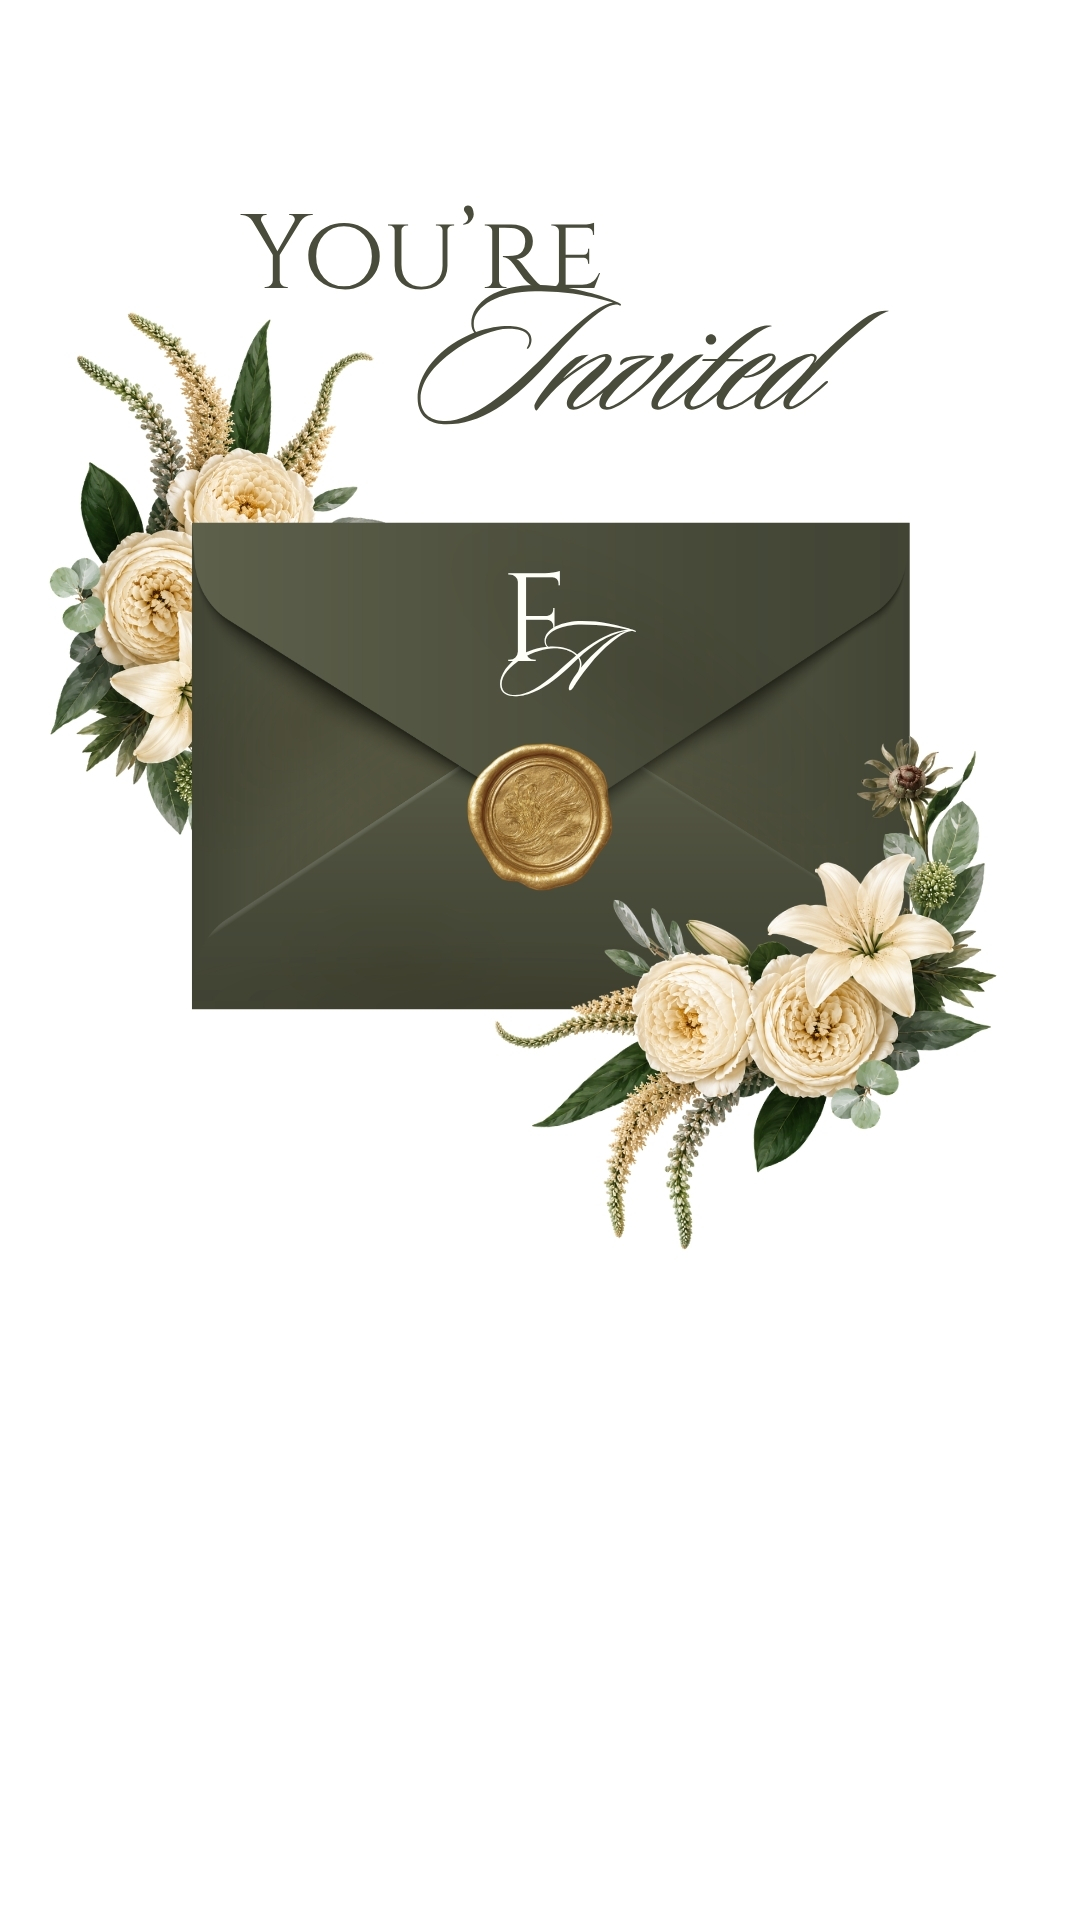
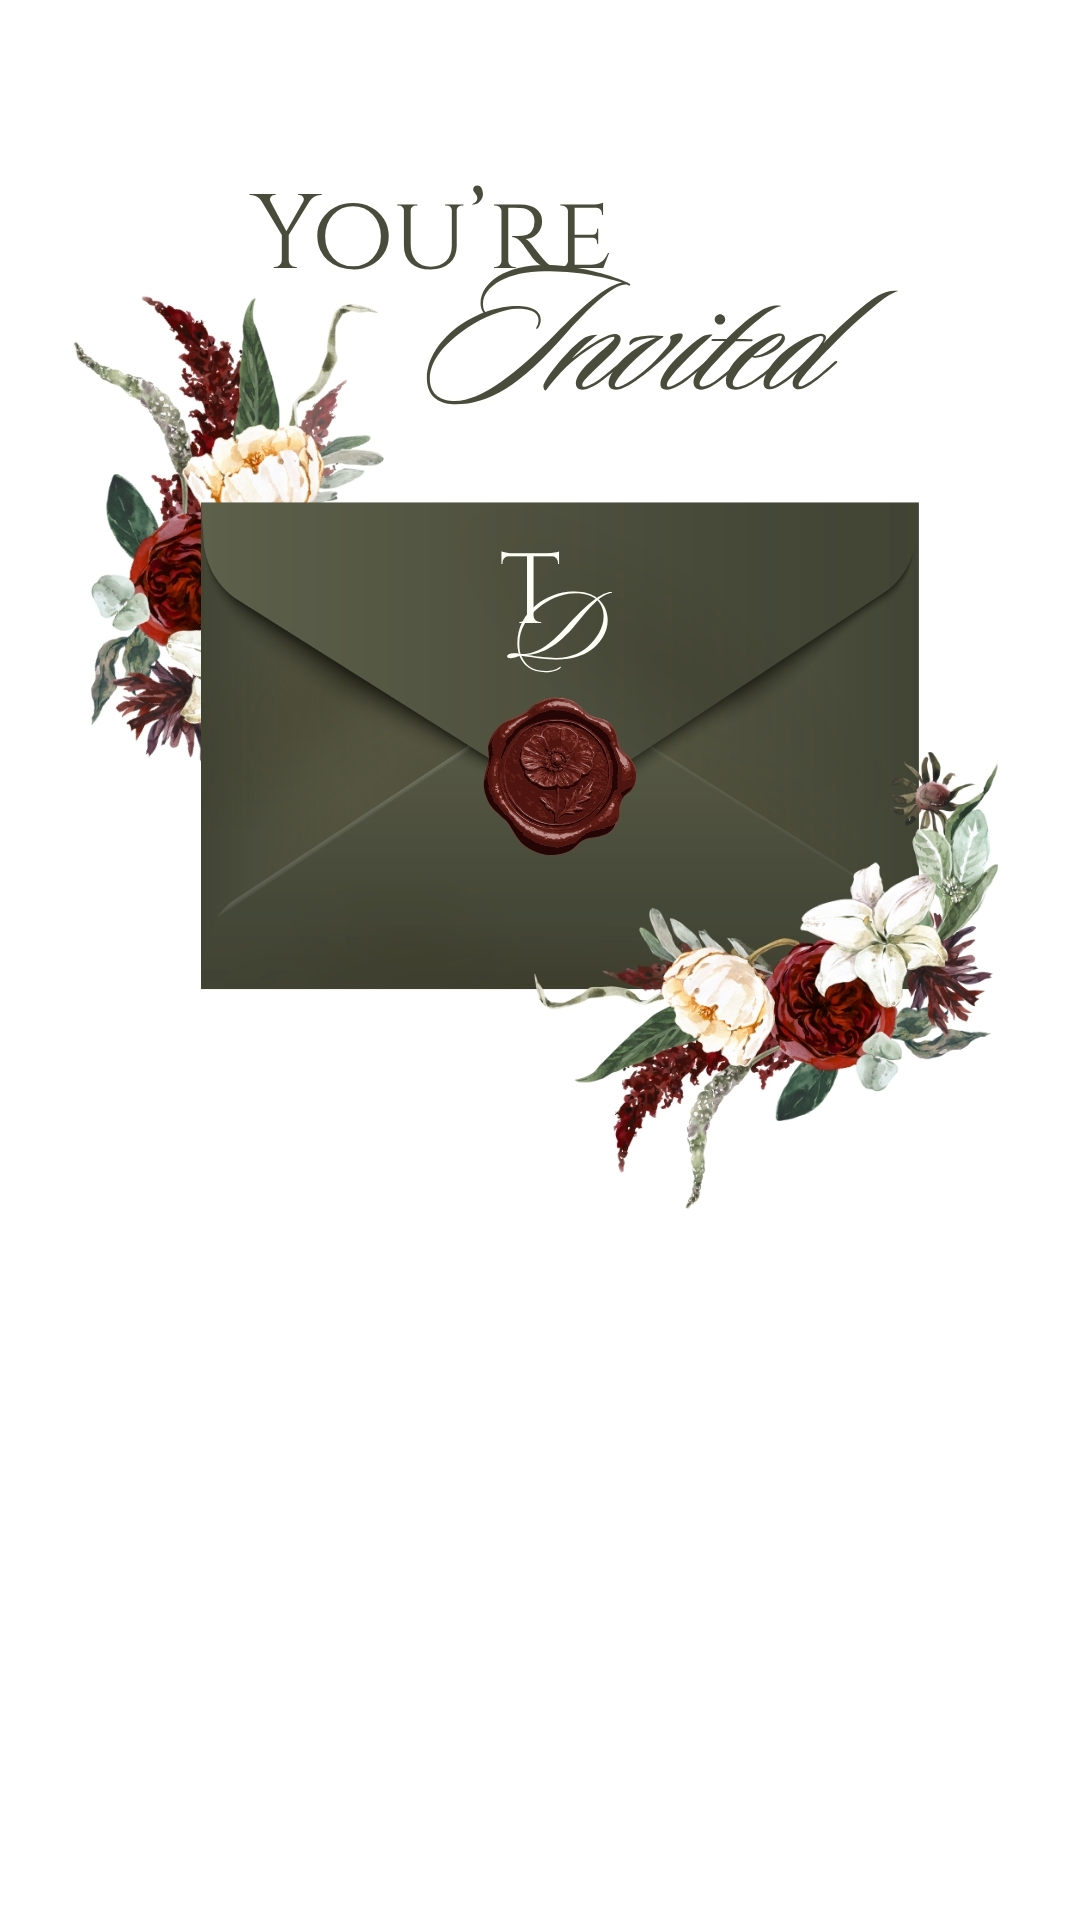
Add files via upload

Changed region(s): [[0.0306, 0.0938, 0.9167, 0.6562], [0.6722, 0.3438, 0.7028, 0.375]]

diff --git a/index.html b/index.html
@@ -9,11 +9,11 @@
   <!-- OPEN GRAPH / WHATSAPP PREVIEW -->
   <meta property="og:title" content="Wedding Invitation">
 
-  <meta property="og:description" content="Farhan & Amira">
+  <meta property="og:description" content="Theo & Disa">
 
-  <meta property="og:image" content="https://farhan-amira.vercel.app/preview.jpg">
+  <meta property="og:image" content="https://theo-disa.vercel.app/preview.jpg">
 
-  <meta property="og:url" content="https://farhan-amira.vercel.app">
+  <meta property="og:url" content="https://theo-disa.vercel.app">
 
   <meta property="og:type" content="website">
 
@@ -116,7 +116,7 @@
       width:100%;
       height:58px;
 
-      background:#515443;
+      background:#5b1b13;
       color:#fff;
 
       border-radius:999px;
@@ -219,7 +219,7 @@
 
     // LINK UNDANGAN
     const invitationLink =
-      "https://wedding-ckcreative.my.canva.site/farhan-amira";
+      "https://wedding-ckcreative.my.canva.site/theo-disa";
 
     // TOMBOL BUKA UNDANGAN
     document